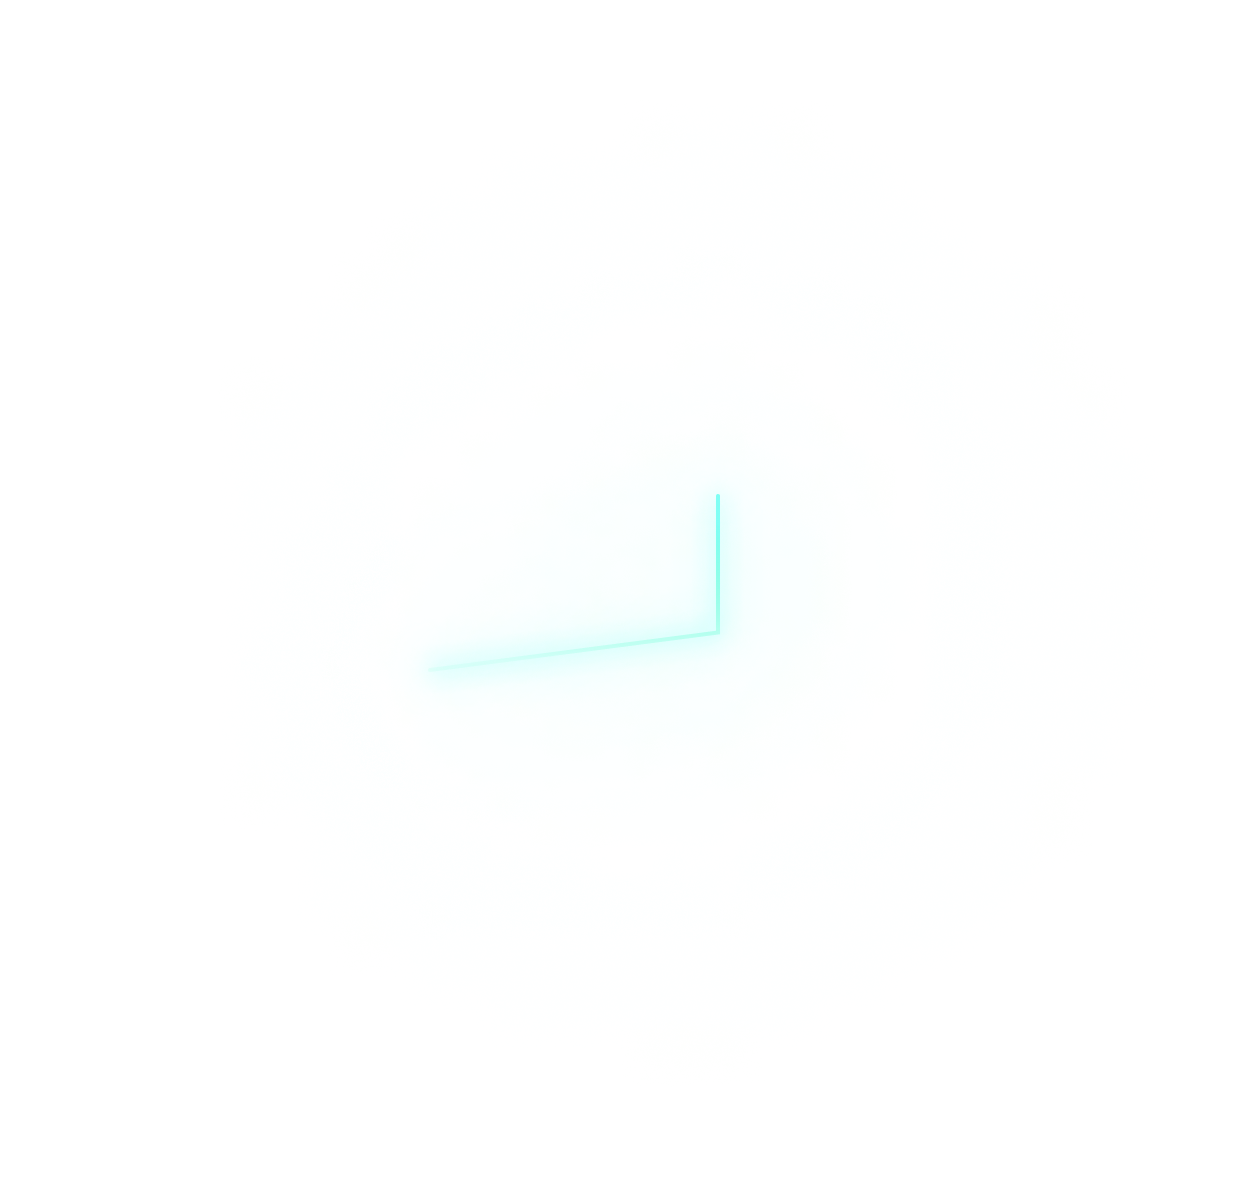
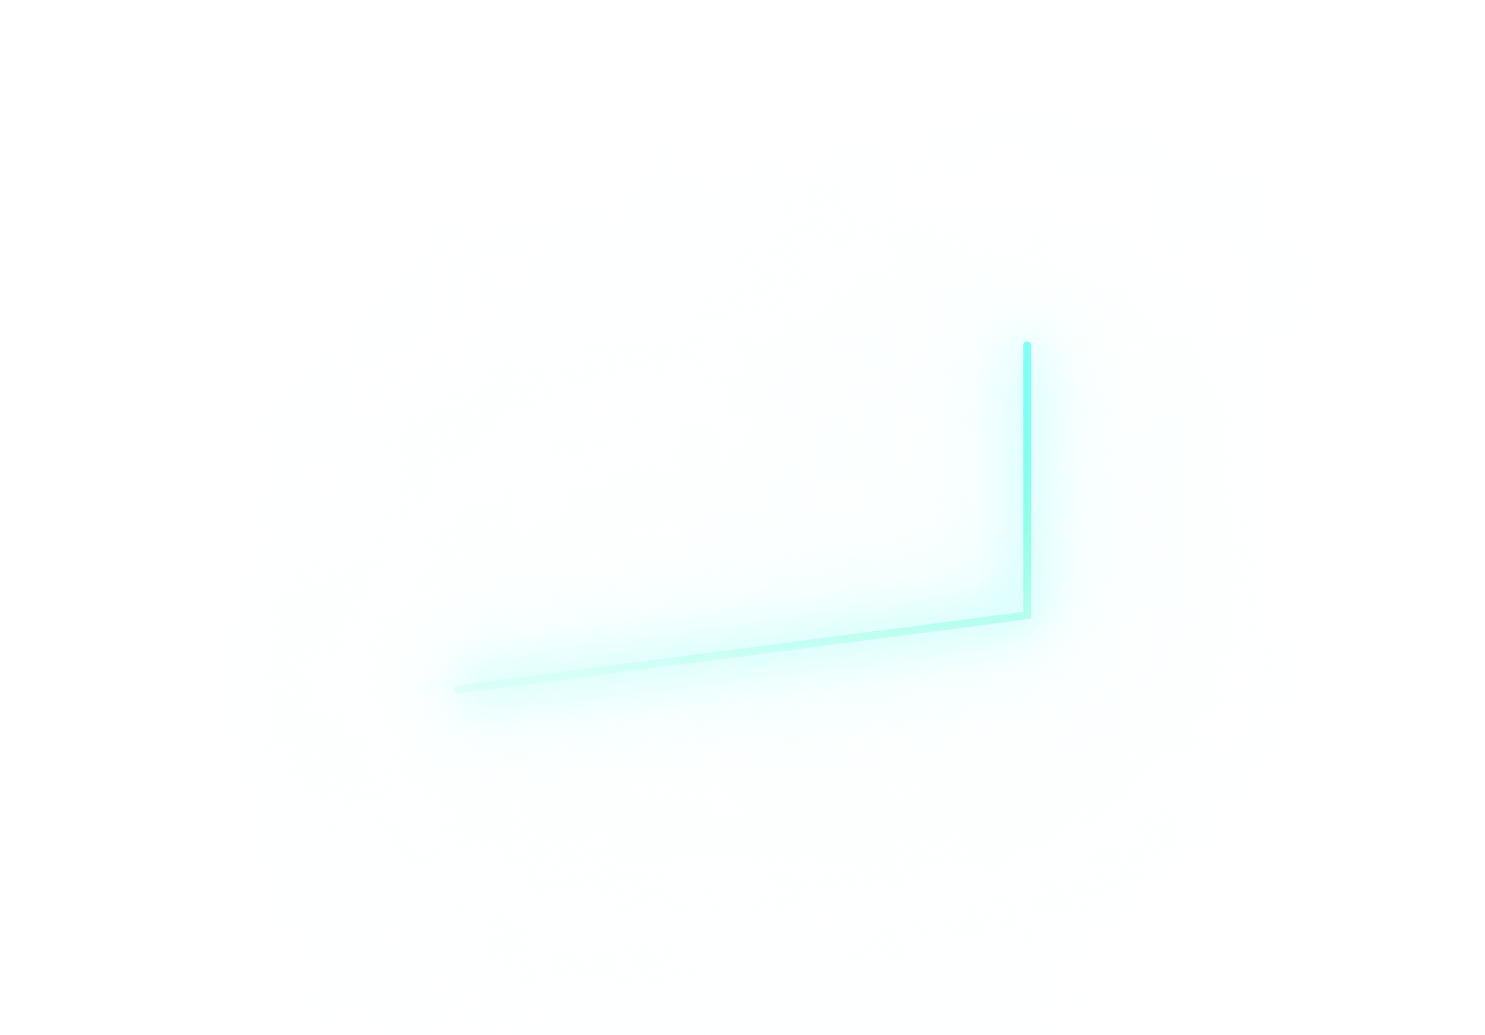
feat(creative-file): add some green decorations

Changed region(s): [[0.3125, 0.3401, 0.7188, 0.6802], [0.3438, 0.4329, 0.5938, 0.5874]]

diff --git a/creative-file.html b/creative-file.html
@@ -17,14 +17,19 @@
       
         {{> navbar }}
   
-        <div class="hidden lg:flex flex-col | flex-1">
-  
-        </div>
-  
     </aside>
     <main class="lg:w-[60vw]">
 
-      <h1 class="h-[100vh] flex justify-center items-center text-5xl">الملف الإبداعي</h1>
+      <div class="h-[100vh] flex justify-center items-center overflow-hidden">
+        <ul class="z-stack">
+          <li class="text-[2.5em]">
+            <h1>الملف الإبداعي</h1>
+          </li>
+          <li>
+            <img src="/images/Line - 1.png"  loading="lazy" class="scale-[3.5]"/>
+          </li>
+        </ul>
+      </div>
       
       <article class="flex flex-col gap-5 p-5">
 
@@ -36,7 +41,7 @@
 
         <div>
 
-          <h2 class="text-2xl">الخبرات السابقة</h2>
+          <h2 class="text-2xl underline decoration-green-40">الخبرات السابقة</h2>
 
           <ul class="list-disc list-inside">
             <li>مدرب فنون صناعة المحتوى لأكثر من 6000 طالب بالجامعات الحكومية والخاصة</li>
@@ -51,11 +56,11 @@
 
         <div class="flex flex-col gap-4">
 
-          <h2 class="text-2xl">نماذج أدبية</h2>
+          <h2 class="text-2xl underline decoration-green-40">نماذج أدبية</h2>
 
           <div class="flex gap-4 text-justify">
 
-            <div style="background-image: url('/images/literary-works/alhadra.jpg')" class="bg-center bg-cover"></div>
+            <div style="background-image: url('/images/literary-works/alhadra.jpg')" class="rounded-md bg-center bg-cover"></div>
   
             <p class="w-[60vw] lg:w-[40vw]">
               الحضرة بقلم مصطفى خضر ... أشياء كثيرة في الحياة قررت ألا أجربها خوفًا من الإدمان، ولكني أدمنت البحث عن الماضي، أرى نفسي فيه، أراني في لوحة عمرها عشرات السنوات، في جرامافون في شارع هدى شعراوي، في لمبة جاز في الجمالية، أرى نفسي في كل ما هو قديم، في كل عتيق، في كل قطعة لا مثيل لها، أجد روحي في موسيقى أحمد التوني، أنفاس ياسين التهامي، أجد شغفي على الهواء عندما ألعب موسيقى صوفية تسحب روحك إلى السماء، وتعود بخيرها إلى الأرض لتمطر فضة على قلوب المحبين الزاهدين.
@@ -65,7 +70,7 @@
 
           <div class="flex gap-4 text-justify">
 
-            <div style="background-image: url('/images/literary-works/eish-alkhufaash.jpg')" class="bg-center bg-cover"></div>
+            <div style="background-image: url('/images/literary-works/eish-alkhufaash.jpg')" class="rounded-md bg-center bg-cover"></div>
   
             <p class="w-[60vw] lg:w-[40vw]">
               عش الخفاش بقلم مصطفى خضر ... في أجواء نفسية رهيبة تلقي بظلالها على الشخصيات والأحداث، تنقل لنا طبيعة الحياة
@@ -76,7 +81,7 @@
 
           <div class="flex gap-4 text-justify">
 
-            <div style="background-image: url('/images/literary-works/muskan.jpg')" class="bg-center bg-cover"></div>
+            <div style="background-image: url('/images/literary-works/muskan.jpg')" class="rounded-md bg-center bg-cover"></div>
   
             <p class="w-[60vw] lg:w-[40vw]">
               يتحدث الكتاب عن كيفية التعامل مع المشكلات الحياتية، التي تواجه الكثيرين في الممارسات اليومية، والتي تتطلب في بعض الأحيان إيجاد حلول مؤقتة، تشبه "المسكن"، وضرورة التوقف عن تناول هذا "المسكن" وإيجاد حلول جذرية لتلك المشكلات. ويحمل الكتاب بعدا نفسيا، حيث يتضمن عددا من التجارب الحياتية البسيطة، التي يشرح من خلالها المؤلف فكرة " المسكن" وكيفية الابتعاد عنه وأعراض الانسحاب حال التوقف عن تناوله.
@@ -88,7 +93,15 @@
 
         <div>
 
-          <h2 class="text-2xl text-center mb-3"> - شركاء النجاح - </h2>
+          <h2 class="text-2xl text-center mb-3">
+
+            <span class="text-green-40"> - </span>
+            
+            <span>شركة النجاح</span>
+
+            <span class="text-green-40"> - </span>
+
+          </h2>
           
           <img src="/images/Success Partners.png" class="visible w-full rounded-lg m-auto"/>
 
@@ -96,7 +109,10 @@
 
       </article>
 
+      {{>footer}}
     </main>
+    <img src="/images/Footer - 2.png" style="display: none;" loading="lazy" class="!block absolute w-full bottom-0 z-[-1] object-[0_10em]"/>
+    <script type="module" src="./src/main.js"></script>
+    <script>document.querySelectorAll('img').forEach(img => img.addEventListener("load", () => (img.style.visibility = "visible") ));</script>
   </body>
-  <script type="module" src="./src/main.js"></script>
 </html>

diff --git a/index.html b/index.html
@@ -4,11 +4,7 @@
     <meta charset="UTF-8" />
     <meta name="viewport" content="width=device-width, initial-scale=1.0" />
     <title>مصطفى خضر | Mostafa Khedr</title>
-    <style>img{visibility:collapse;}</style>
-    <link rel="apple-touch-icon" sizes="180x180" href="/favicon/apple-touch-icon.png">
-    <link rel="icon" type="image/png" sizes="32x32" href="/favicon/favicon-32x32.png">
-    <link rel="icon" type="image/png" sizes="16x16" href="/favicon/favicon-16x16.png">
-    <link rel="manifest" href="/favicon/site.webmanifest">
+    {{> header }}
   </head>
   <body class="bg-black-00 dir-rtl relative | lg:flex">
     
@@ -74,7 +70,7 @@
       <section class="chapter flex-center" id="intro">
         <div class="intro__banner relative | text-[2vw] lg:text-[1vw]">
           <div style="text-align: center; margin: 2em 0 2em 0" class="layer">
-            <h1 class="intro__title">ماذا يعني إجتماع</h1>
+            <h1 class="intro__title mb-4">ماذا يعني إجتماع</h1>
             <h1 class="intro__title">ناجح بالنسبة لي ؟</h1>
           </div>
           <div style="display: none" class="layer !block">
@@ -140,38 +136,7 @@
           <p>الإنجاز اليوم لم يعد يكمن في تحقيق النجاحات فحسب، بل هو يكمن في استمراريتك في تحقيق هذه النجاحات، والتي تتحق من معرفتك لكيفية التسويق لها والتحدث عنها تحدثًا يمكنك من تحقيق المزيد منها, و معاً، نتخذ خطوات جادة تجاه ذلك</p>
         </div>
       </section>
-      <footer id="contact" class="h-[100vh]">
-        <div data-svg="/assets/vectors/Contact Me.svg" class="w-[10em] | lg:hidden"></div>
-        <article class="contact__info">
-          <h1>كلمني</h1>
-          <div>
-            <ul class="contact__card | lg:!text-[1.5vw] text-black-65">
-              <li>
-                <span>رقم التليفون :</span>
-                <a href="tel:+201000819531" dir="ltr" class="underline">+20 1000 8195 31</a>
-              </li>
-              <li>
-                <span>الإيميل :</span>
-                <a href="mailto:mostafa.povostudios@gmail.com" class="underline">mostafa.povostudios@gmail.com</a>
-              </li>
-            </ul>
-            <ul class="contact__card">
-              <li data-svg="/assets/vectors/Facebook.svg">
-                <a href="https://facebook.com/mostafa.khedr">فيسبوك</a>
-              </li>
-              <ul>
-                <li data-svg="/assets/vectors/X.svg">
-                  <a href="https://twitter.com/mostafa.khedr">إكس</a>
-                </li>
-                <li data-svg="/assets/vectors/Instagram.svg">
-                  <a href="https://instagram.com/mostafa.khedr">إنتسجرام</a>
-                </li>
-              </ul>
-            </ul>
-          </div>
-        </article>
-        <img src="/images/Footer.png" style="display: none;" loading="lazy" class="!block | lg:!hidden"/>
-      </footer>
+      {{> footer }}
     </main>
     <img src="/images/Footer - 2.png" style="display: none;" loading="lazy" class="!block absolute w-full bottom-0 z-[-1] object-[0_10em]"/>
     <script>document.querySelectorAll('img').forEach(img => img.addEventListener("load", () => (img.style.visibility = "visible") ));</script>

diff --git a/src/styles/style.css b/src/styles/style.css
@@ -319,8 +319,8 @@ section.chapter#intro {
                     
                     img {
                         @apply pointer-events-none;
-                        transform: scale(5.5);
-                        margin-right: -5em;
+                        transform: scale(3);
+                        margin-right: 5em;
                     }
             
                 }
